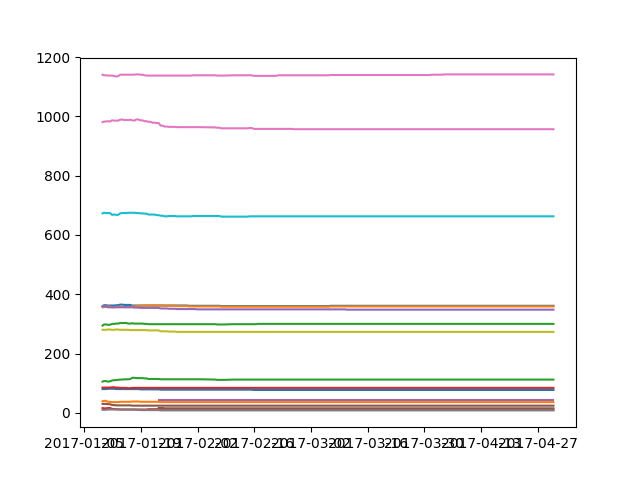
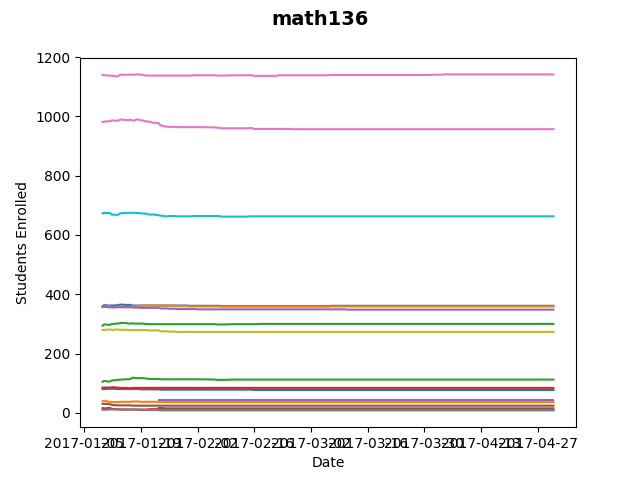
added titles and axes for plots

Changed region(s): [[0.4062, 0.0, 0.5938, 0.0625], [0.0312, 0.375, 0.0625, 0.625], [0.5, 0.9375, 0.5312, 0.9688]]

diff --git a/plot.py b/plot.py
@@ -33,9 +33,22 @@ for course in courses:
         data.append([key, tempDict[key]])
 
     data.sort()
+#    if course == 'econ/101':
+  #      print(data)
 
     x = [x for (x,y) in data]
     y = [y for (x,y) in data]
 
+    if course == "econ/101":
+        print(x)
+        print(y)
+        print(len(x))
+        print(len(y))
     plt.plot_date(x,y,'-')
-    plt.savefig("{}.png".format(course).replace("/",""))
+    filename = course.replace("/","")
+    plt.suptitle(filename,fontsize = 14, fontweight='bold')
+    plt.xlabel('Date')
+    plt.ylabel('Students Enrolled')
+    if course == "econ/101":
+        plt.show()
+    plt.savefig("plots/{}.png".format(filename))
